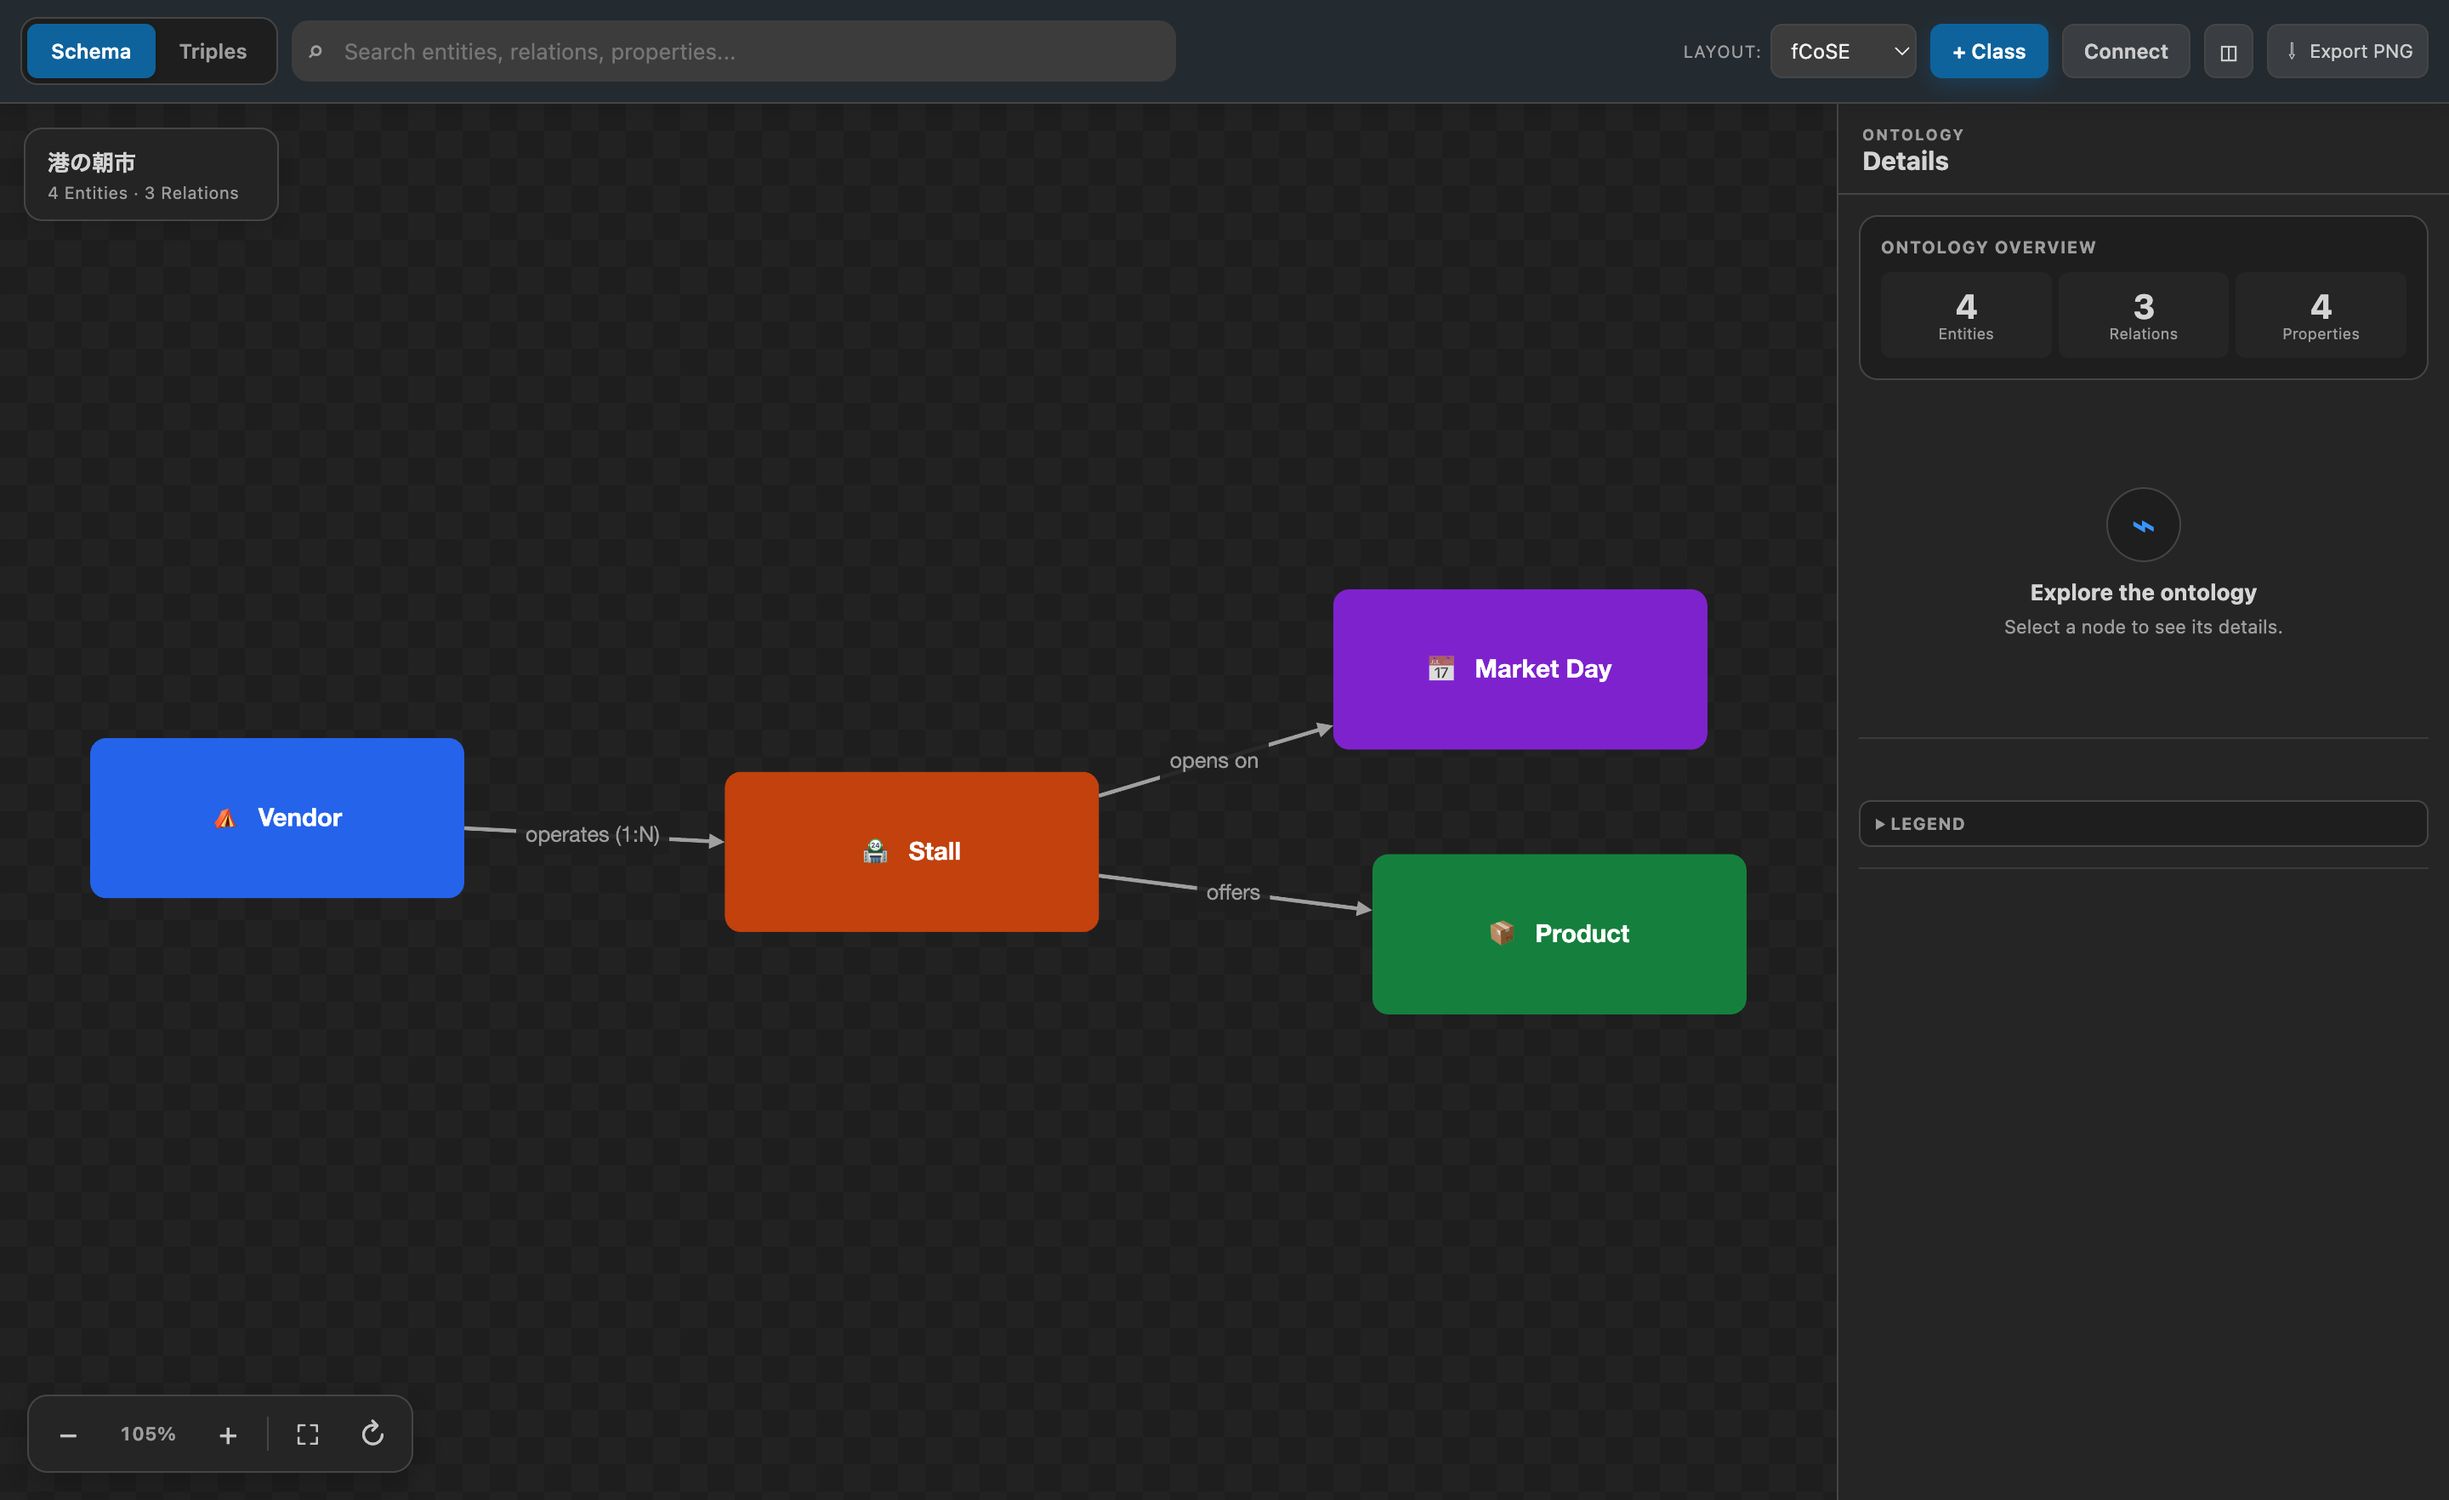
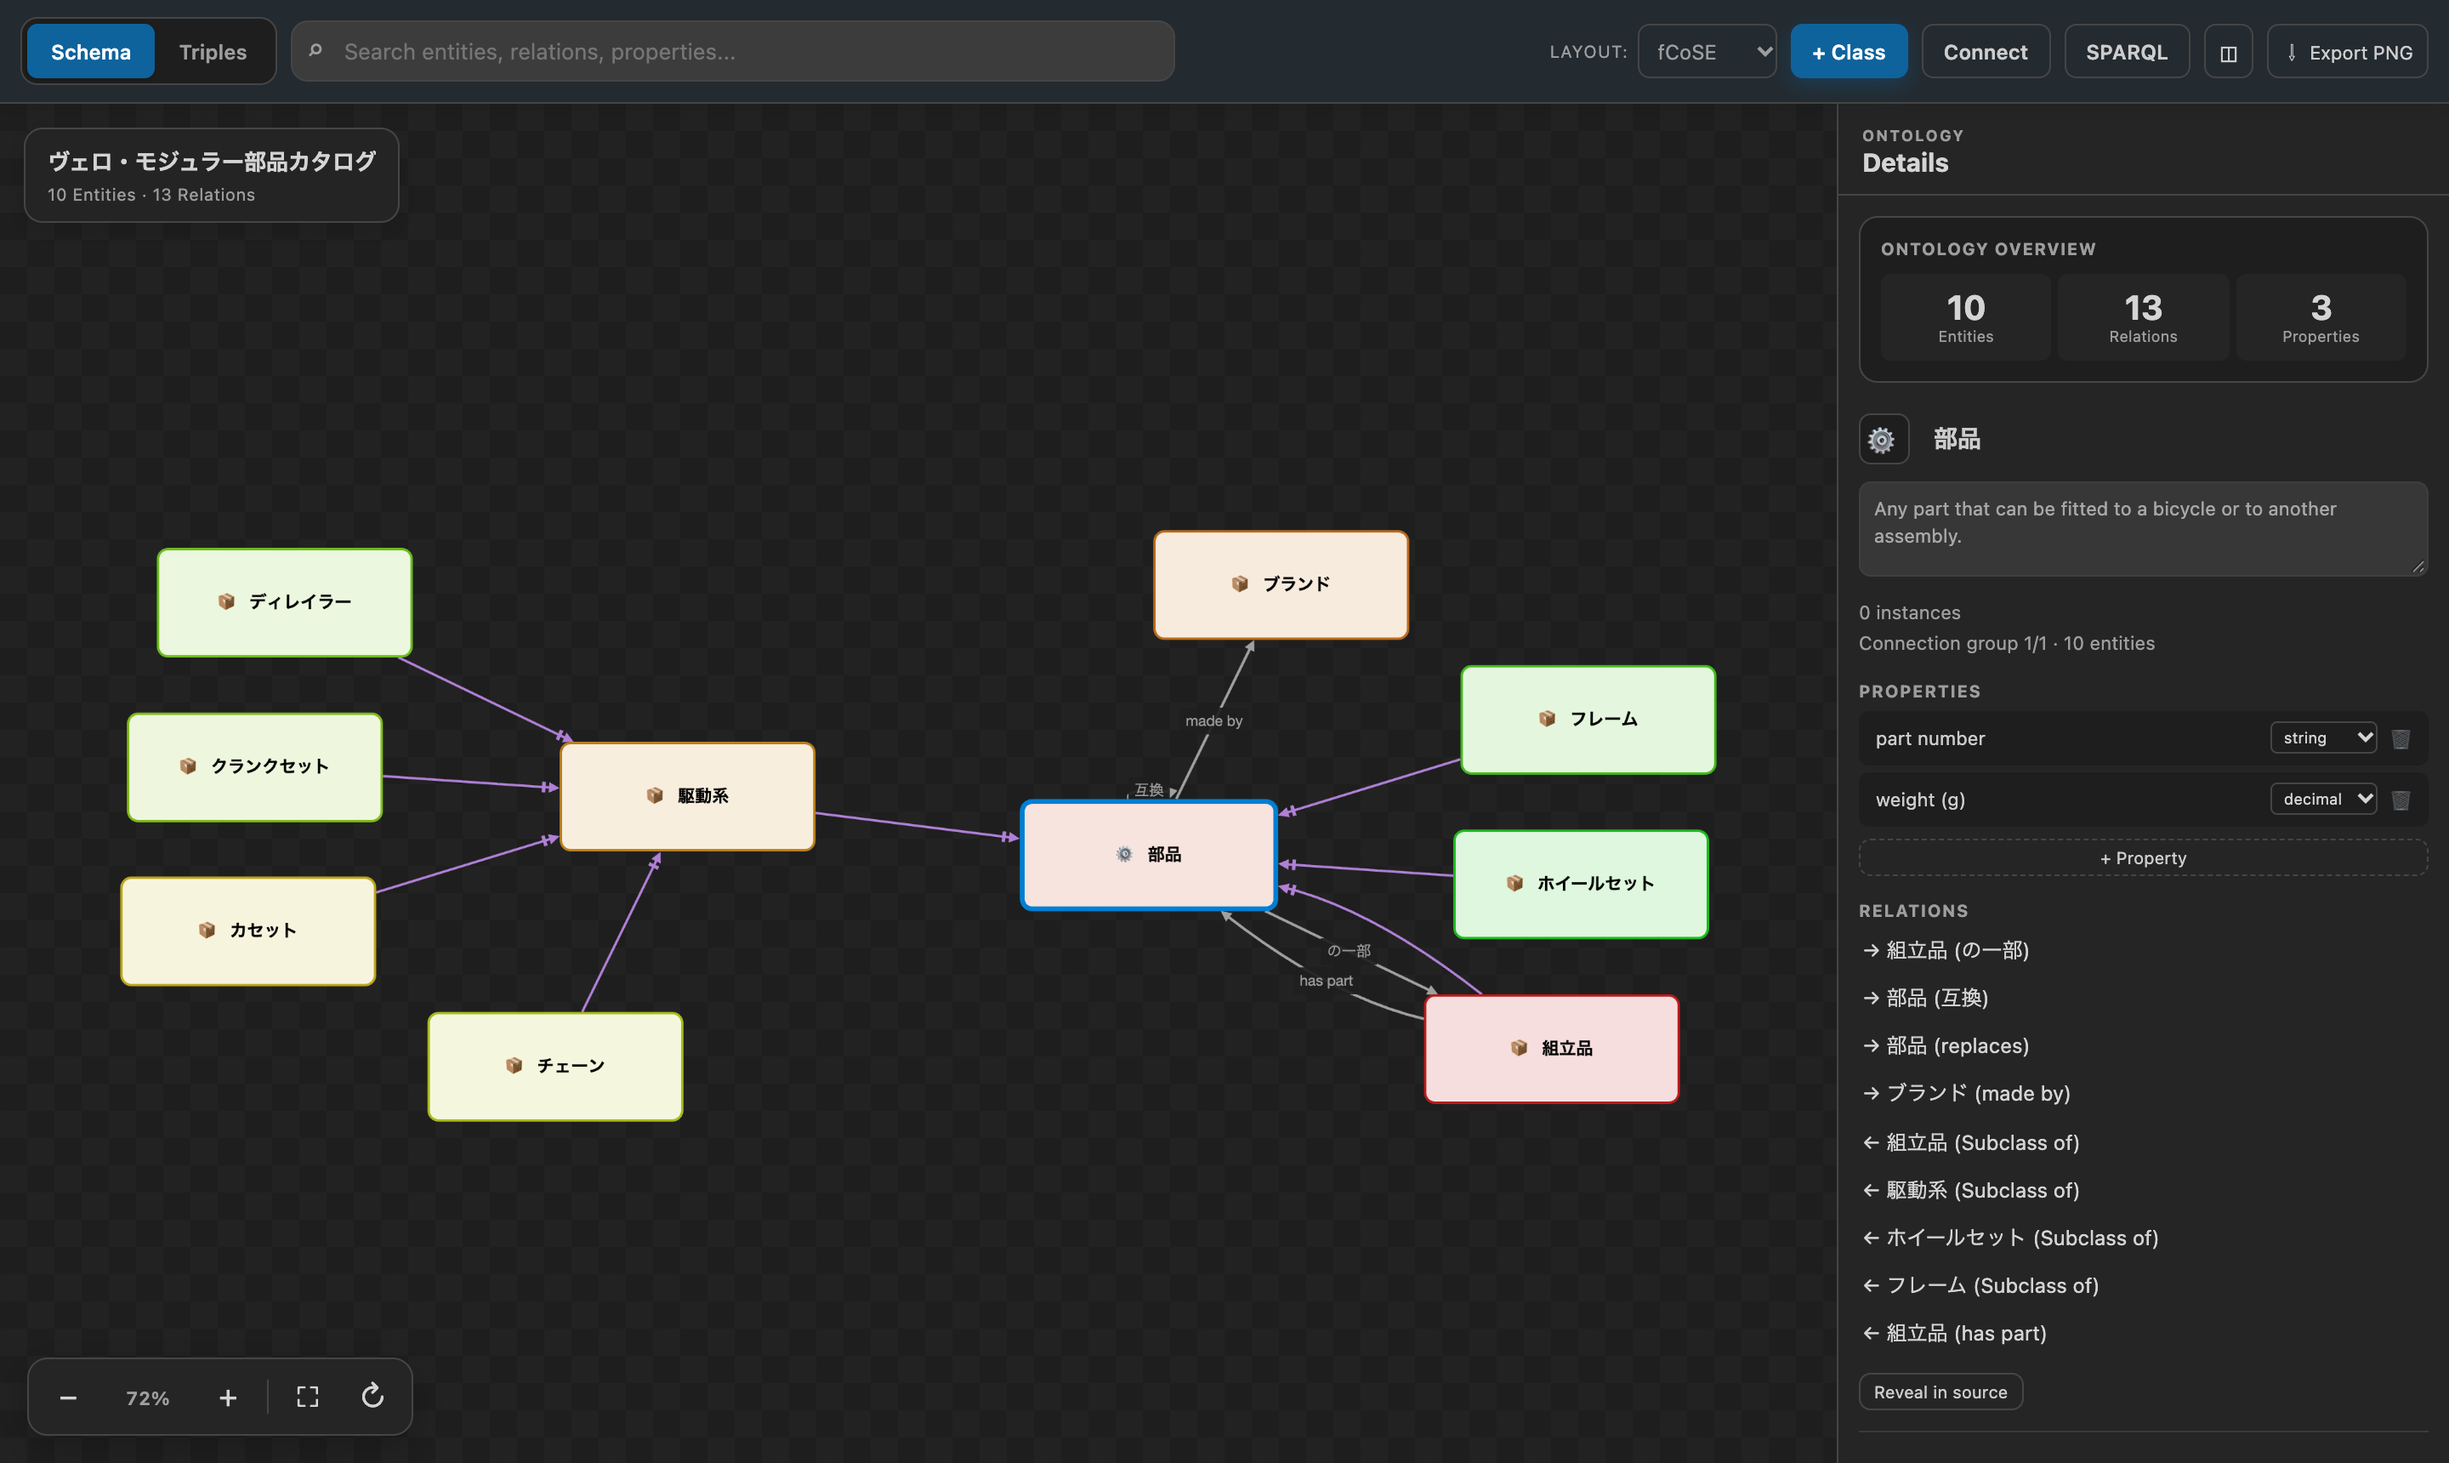
docs: refresh README screenshots from the bundled samples
Replaces the overview (now the product-compatibility sample with a class
selected in the Inspector) and the Actions panel shot, and adds an Object
Ontology Inspector shot (cafe-orders, tutorial 5) and a SPARQL shot on the
delivery sample with matching types highlighted. All were rendered from the
current webview build at 2x.

diff --git a/README.md b/README.md
@@ -12,7 +12,7 @@ It also reads **Object Ontology** files (`*.oont.yaml`): an object-centric forma
 
 > Ontology Viewer is in preview. Keep source control enabled for important ontologies and review diagram-generated changes before committing them.
 
-![Ontology Viewer showing the Harbor Market schema with icons, colors, cardinality, search, and Inspector](media/ontology-viewer-overview.png)
+![Ontology Viewer showing the product-compatibility sample: a class hierarchy of bicycle parts with the Part class selected and its properties and relations in the Inspector](media/ontology-viewer-overview.png)
 
 ## Why you will enjoy using it
 
@@ -39,7 +39,7 @@ The [choosing guide](docs/en/choosing-ontology-style.md) and the [use-case catal
 
 ### Object Ontology at a glance
 
-![The Harbor City Delivery Ops sample: object types, an interface, link types with cardinality, and the Actions panel](media/object-ontology-actions.png)
+![The Harbor City Delivery Ops sample with the Actions panel open: Assign vehicle lists its parameters, effects, rejection rules and side effects, and the Shipment and Vehicle types it touches are outlined](media/object-ontology-actions.png)
 
 ```yaml
 objectOntology: 1
@@ -64,6 +64,8 @@ actionTypes:
 - **Problems and outline**: broken references, unknown fields, and duplicate example keys are reported at their exact location. A bundled JSON Schema adds completion for `*.oont.json` (and for `*.oont.yaml` with the Red Hat YAML extension).
 - **SPARQL** runs over an RDF projection (OWL + an `oont:` vocabulary), with eight Object-Ontology example queries such as "what can be done to each type?" and "follow links between objects".
 - **AI-agent exports** open as untitled documents for you to review: action types as **tool definitions** (JSON Schema, the shape used by MCP and function-calling APIs), a compact **LLM context summary** in Markdown, and **Turtle** for combining with Semantic Web data. The extension itself never calls an LLM or the network.
+
+![The Corner Cafe Orders sample with the Order type selected: the Inspector shows its description, example-object count, typed properties with the primary key marked, and its links](media/object-ontology-inspector.png)
 
 The format is this extension's own; it is not Palantir's file format and does not connect to Foundry.
 
@@ -98,6 +100,8 @@ Results show as text — a table of bindings for SELECT, a boolean for ASK, or s
 - **Highlight** accents matching nodes and their connecting edges while keeping the rest of the graph visible.
 - **Filter** dims everything the query did not match, and composes with the search box and double-click focus.
 - **No graph effect** shows the text result only.
+
+![A SPARQL query over the delivery sample listing which actions may change each object type; the matching Shipment and Vehicle types are highlighted on the diagram](media/object-ontology-sparql.png)
 
 Queries execute locally in the extension host (powered by [Comunica](https://comunica.dev/)); no ontology contents leave your machine.
 
